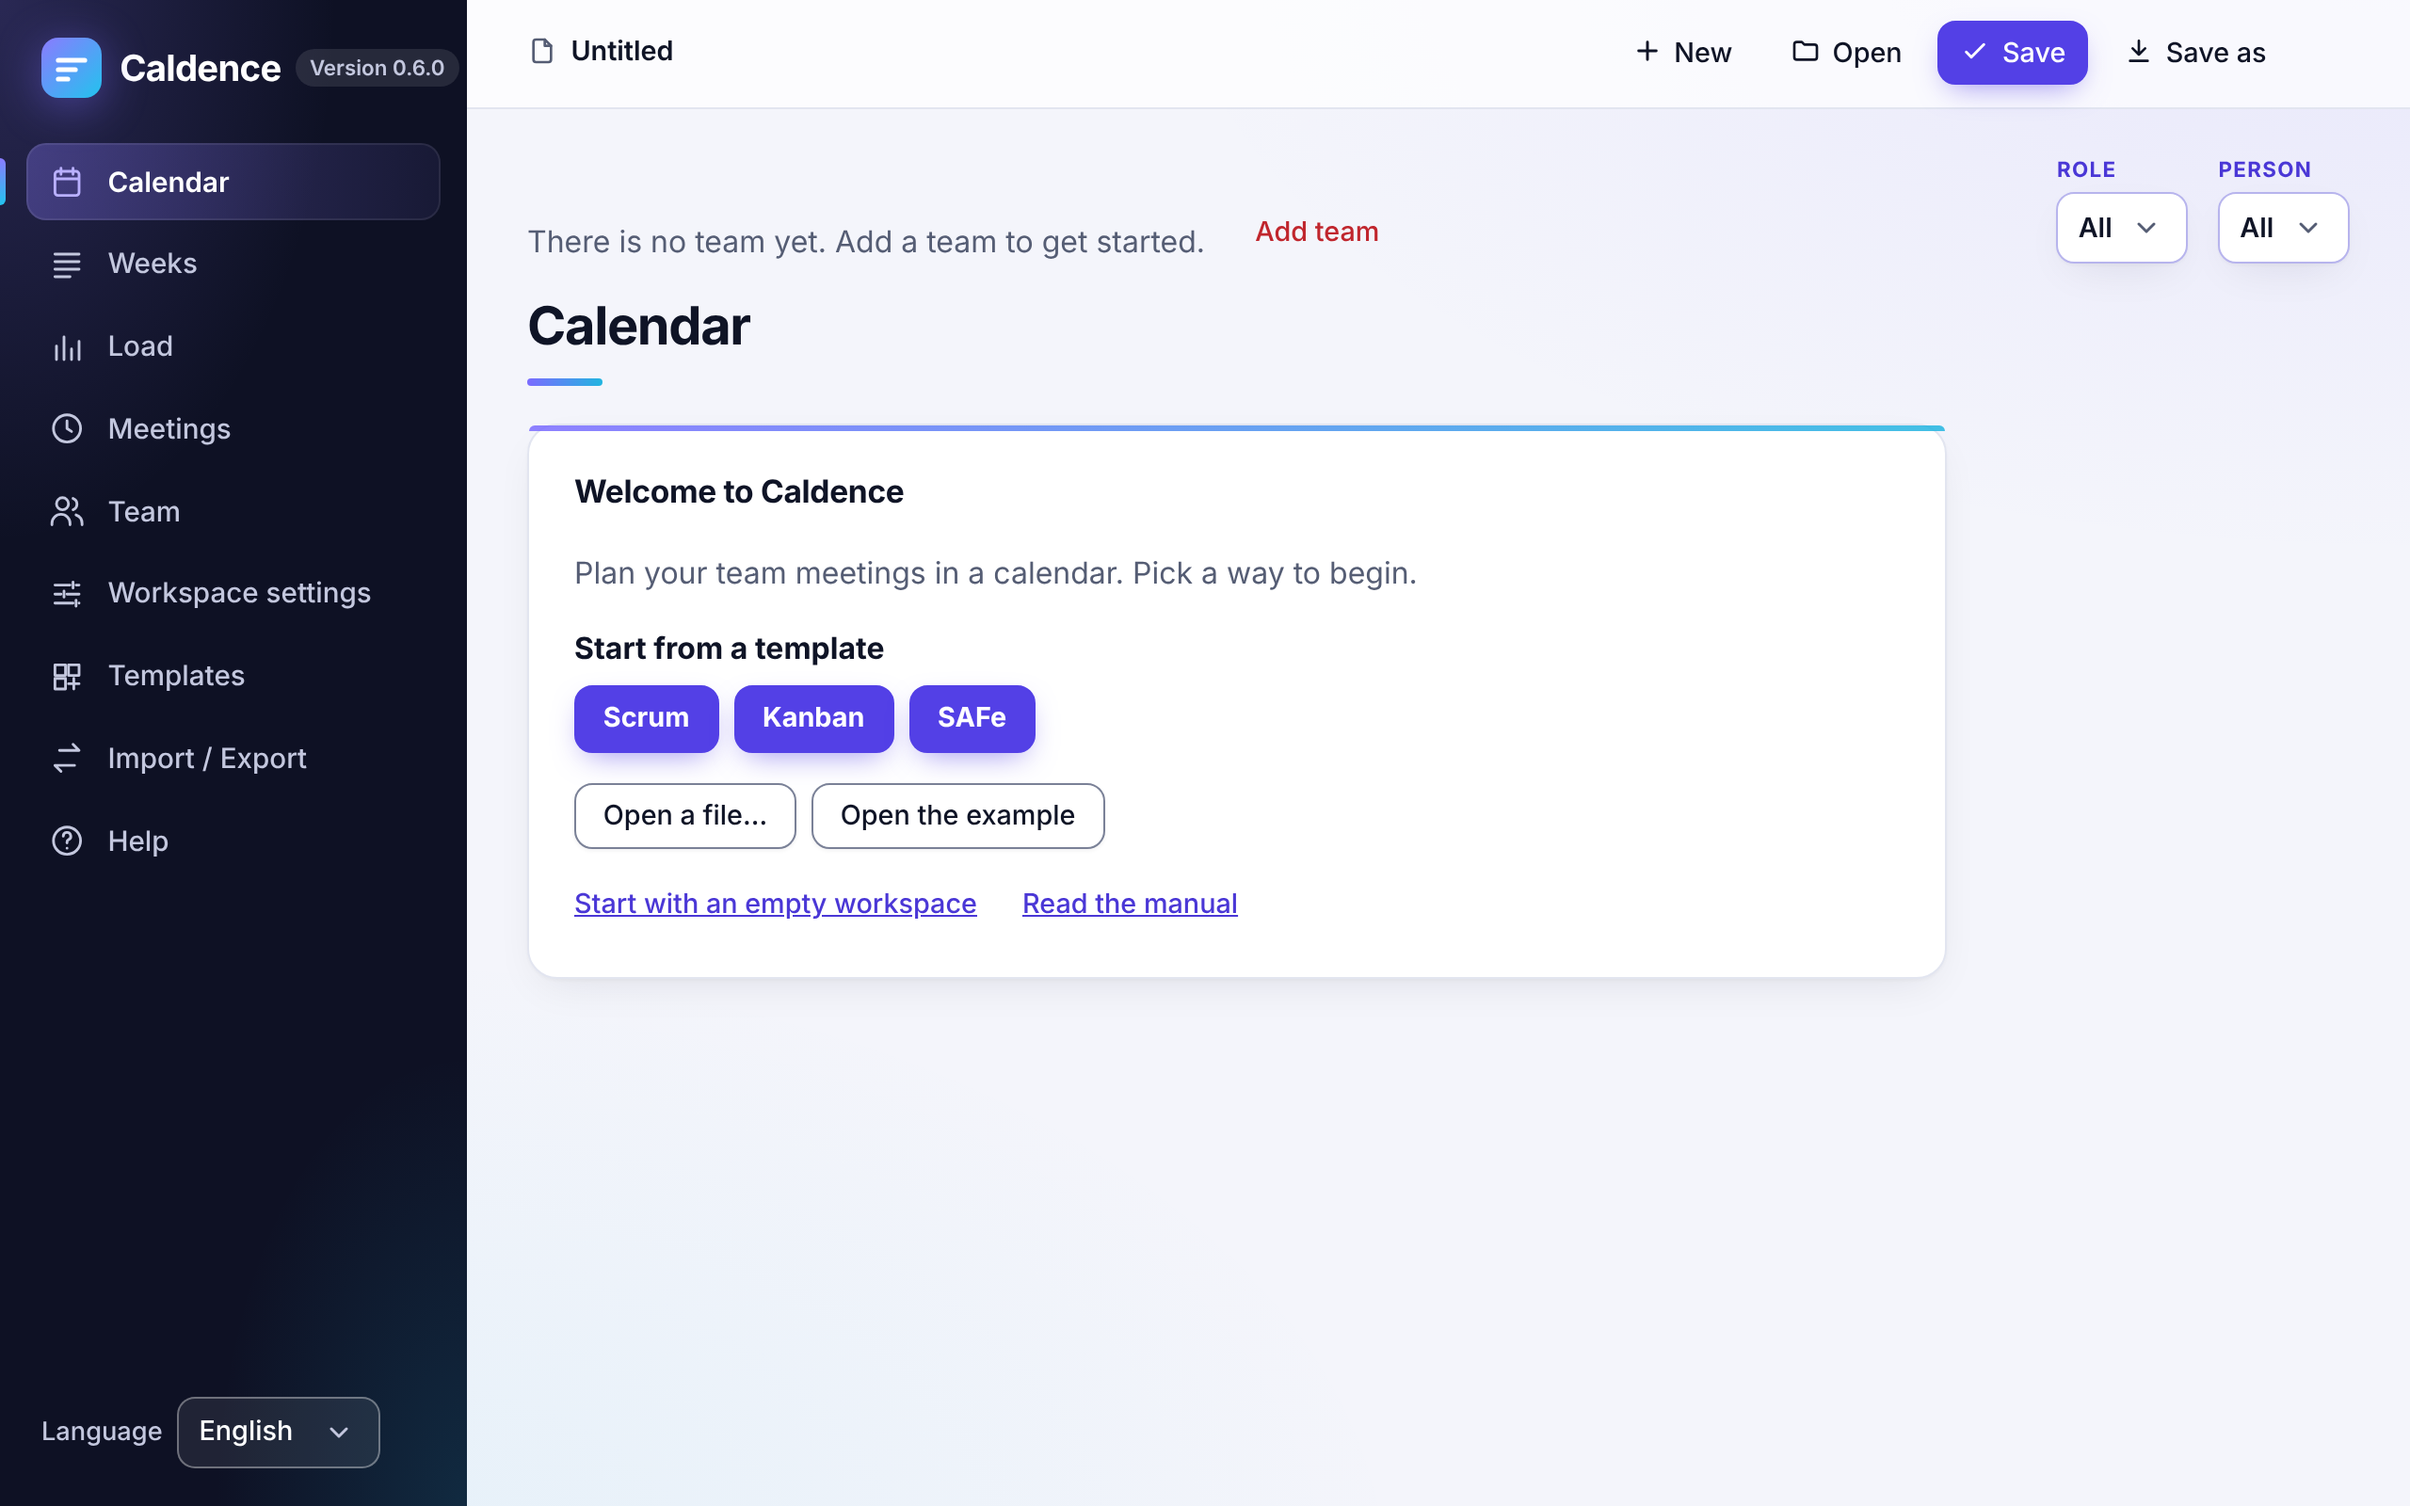
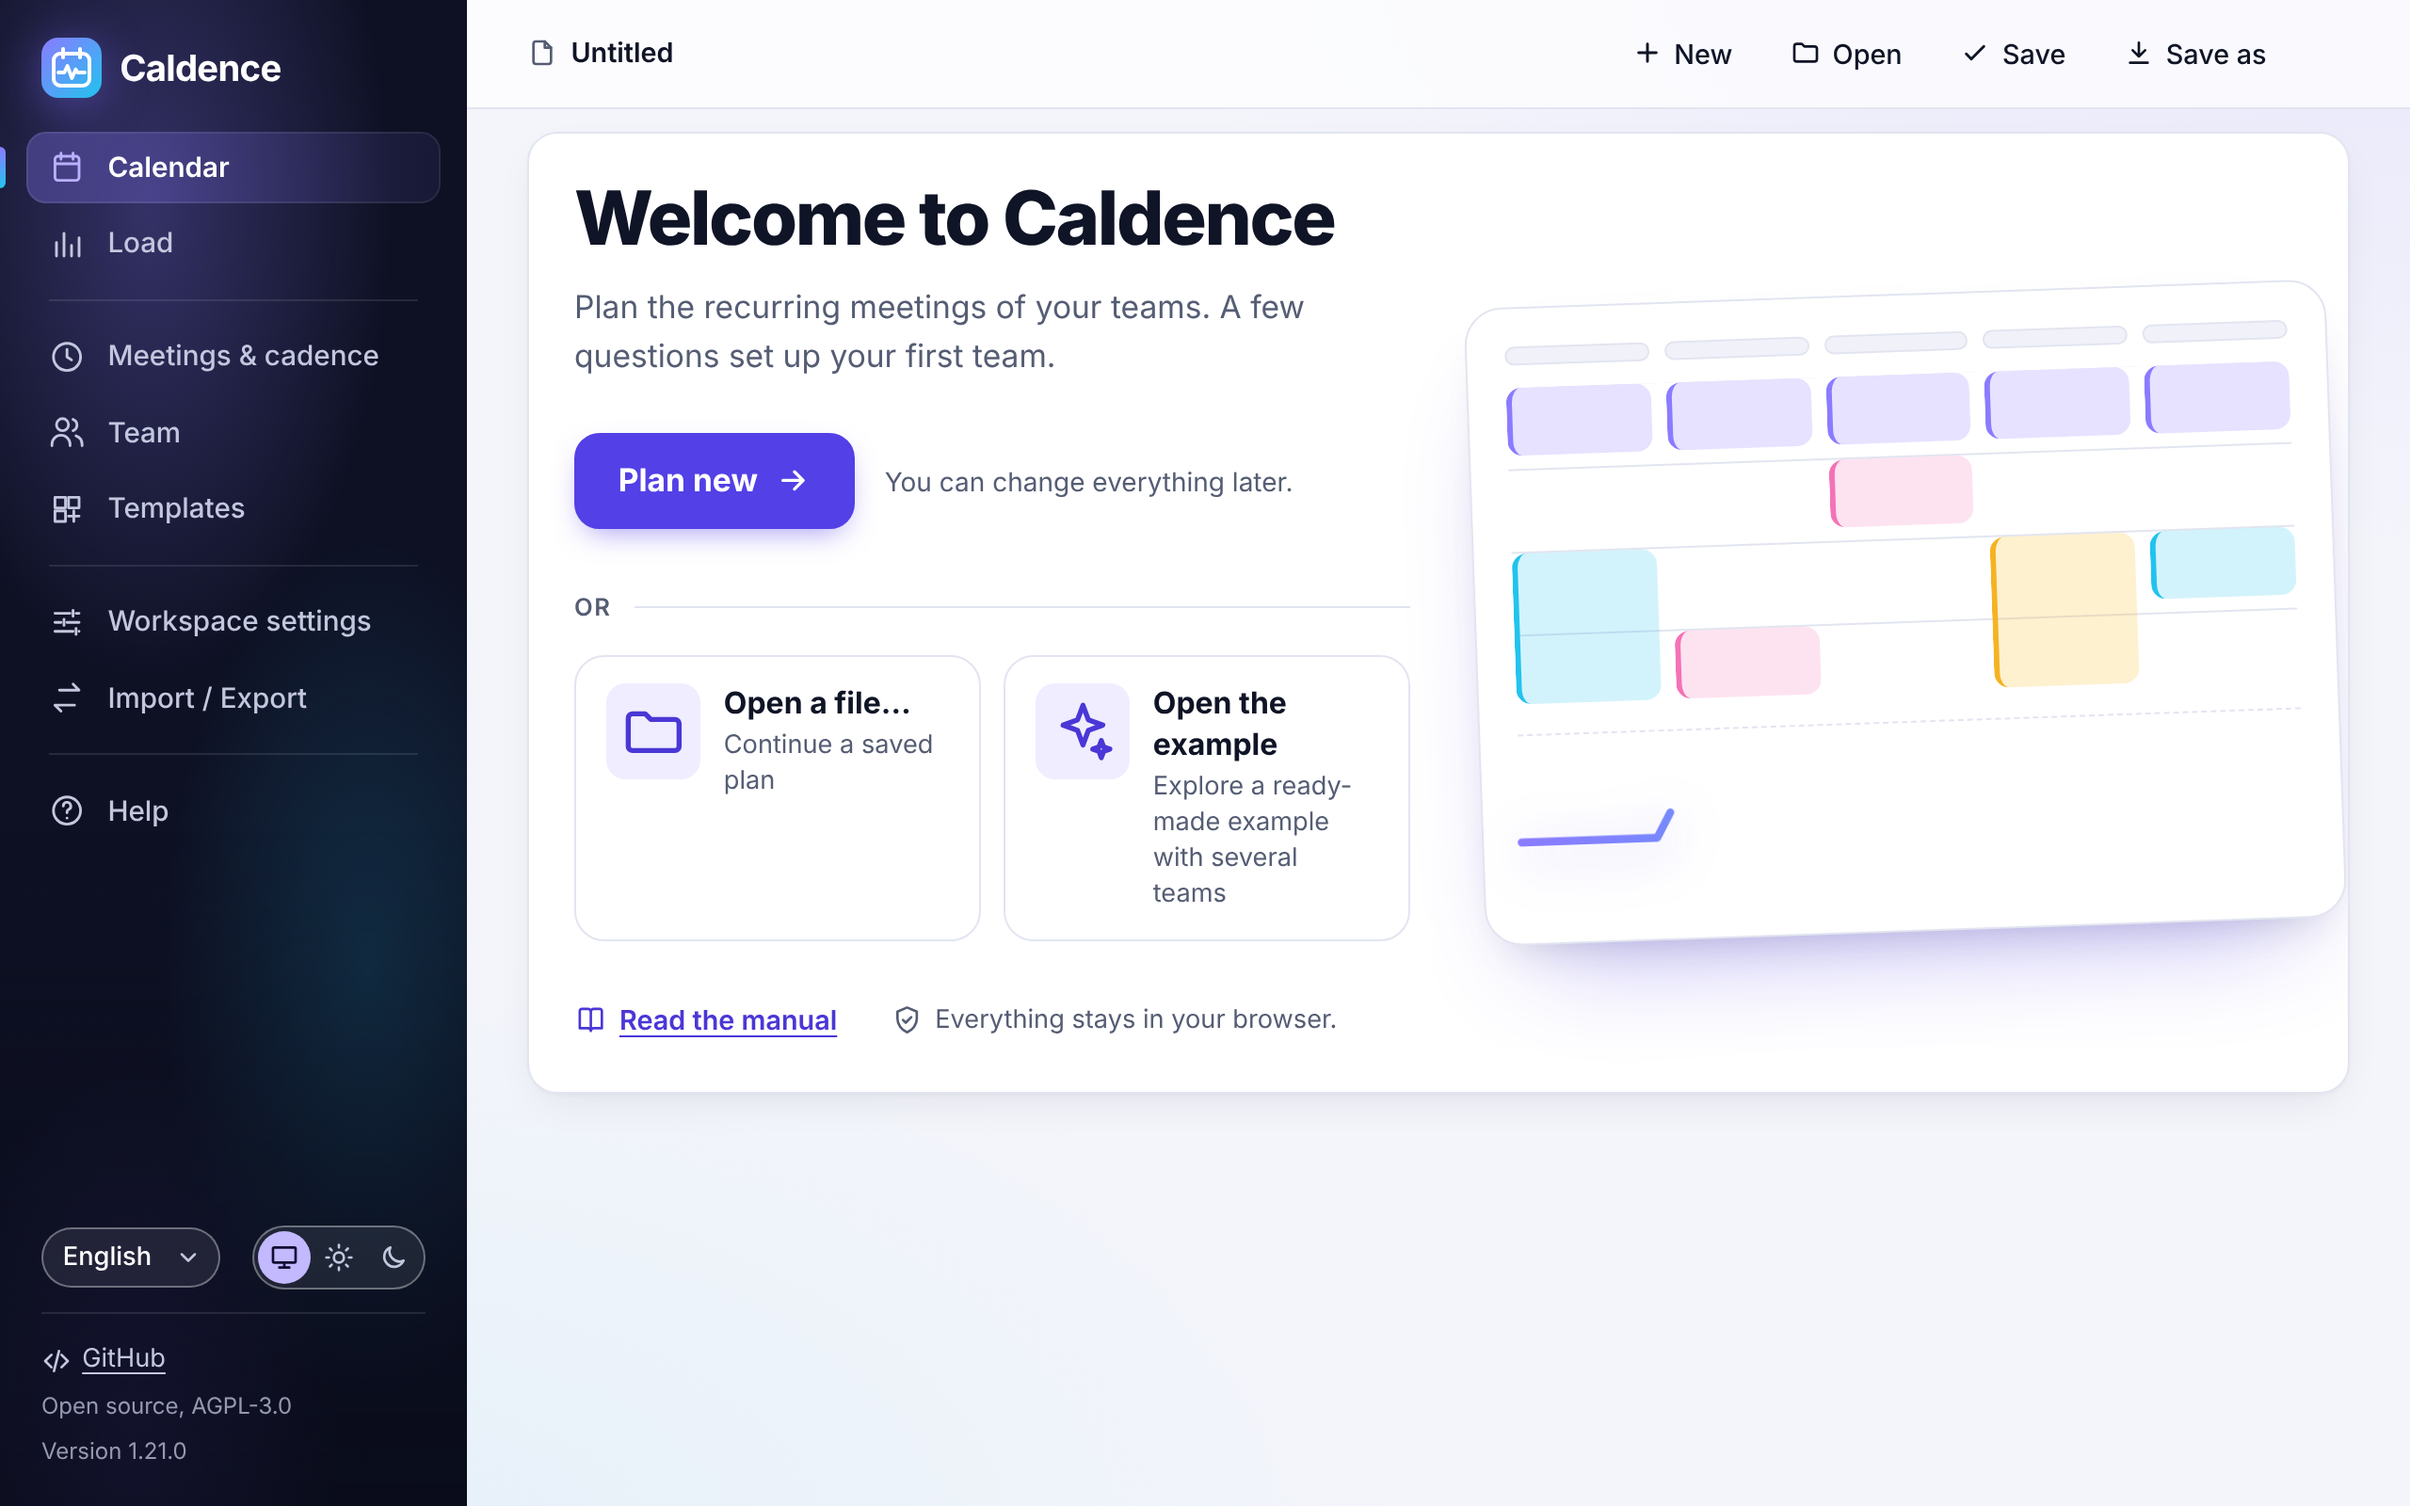
fix: review findings for the calendar levels
Screenshots use the Horizon level, the level survives a horizon change, the
hidden Horizon table is not kept up to date, focus scrolls into view when
leaving Horizon, and WeeksView drops its unused props. README and screenshots
updated.

diff --git a/src/ui/views/CalendarView.svelte b/src/ui/views/CalendarView.svelte
@@ -1,3 +1,8 @@
+<script lang="ts" module>
+  /** The level outlives the view, which is rebuilt when the planning horizon changes. */
+  let lastMode: Mode = 'month';
+</script>
+
 <script lang="ts">
   import { tick } from 'svelte';
   import { get } from 'svelte/store';
@@ -33,8 +38,10 @@
     onOpenMeetings: () => void;
     /** Opens a meeting in the Meetings view (Edit in the day details). */
     onEditMeeting?: (teamId: string, eventId: string) => void;
+    /** Whether the calendar is the open view; the hidden Horizon table is not kept up to date. */
+    shown?: boolean;
   }
-  let { onOpenMeetings, onEditMeeting }: Props = $props();
+  let { onOpenMeetings, onEditMeeting, shown = true }: Props = $props();
 
   const horizon = $derived($workspace.settings.horizon);
   const inHorizon = (d: ISODate): boolean => d >= horizon.from && d <= horizon.to;
@@ -48,7 +55,7 @@
 
   type Mode = 'week' | 'month' | 'range';
   /** Week and month page through the horizon; range shows all of its weeks as one table. */
-  let mode = $state<Mode>('month');
+  let mode = $state<Mode>(lastMode);
   const modes: readonly Mode[] = ['week', 'month', 'range'];
   let cursor = $state<ISODate>(clampToHorizon());
   let selected = $state<ISODate | null>(null);
@@ -318,14 +325,14 @@
   async function setMode(next: Mode) {
     // The switch moves between toolbars to and from the range level; keep focus on it.
     const focused = root?.querySelector('.levels')?.contains(document.activeElement) ?? false;
-    mode = next;
+    mode = lastMode = next;
     selected = null;
     if (!focused) return;
     await tick();
-    // Without scrolling: the range level scrolls its current week into view.
+    // Into the range level without scrolling: it scrolls its current week into view itself.
     root
       ?.querySelector<HTMLElement>('.levels [aria-pressed="true"]')
-      ?.focus({ preventScroll: true });
+      ?.focus({ preventScroll: next === 'range' });
   }
 
   function edit(item: DayItem) {
@@ -664,8 +671,8 @@
         </section>
       {/each}
     </div>
-  {:else}
-    <WeeksView {onOpenMeetings} embedded {levels} />
+  {:else if shown}
+    <WeeksView {levels} />
   {/if}
 </div>
 

diff --git a/src/ui/views/WeeksView.svelte b/src/ui/views/WeeksView.svelte
@@ -6,21 +6,17 @@
   import { formatDisplayDate, formatNumber, locale, translate as t } from '../../i18n';
   import { filter, index, localToday, workspace } from '../state/workspace';
 
+  /** The calendar's Horizon level; the calendar shows the empty-state hint. */
   interface Props {
-    /** Switches to the Meetings view (empty-state hint). */
-    onOpenMeetings: () => void;
-    /** Inside the calendar, which shows the empty-state hint itself. */
-    embedded?: boolean;
     /** The calendar's level switch, at the end of this toolbar. */
     levels?: Snippet;
   }
-  let { onOpenMeetings, embedded = false, levels }: Props = $props();
+  let { levels }: Props = $props();
 
   const settings = $derived($workspace.settings);
   const rows = $derived(weekRows($workspace, $index, $filter));
   const teams = $derived(scopeTeams($workspace, $filter));
   const several = $derived(teams.length > 1);
-  const hasEvents = $derived($workspace.teams.some((x) => x.events.length > 0));
   /** Roles in workspace order that carry hours in at least one row. */
   const roles = $derived($workspace.roles.filter((r) => rows.some((row) => r.id in row.byRole)));
   const currentMonday = mondayOf(localToday());
@@ -71,12 +67,6 @@
 <div class="weeks">
   {#if coverage}
     <p class="hint">{coverage}</p>
-  {/if}
-  {#if !hasEvents && !embedded}
-    <p class="hint">
-      {$t('cal.noevents.text')}
-      <button type="button" onclick={onOpenMeetings}>{$t('cal.noevents.button')}</button>
-    </p>
   {/if}
 
   <div class="toolbar">

diff --git a/tests/e2e/weeks-load.spec.ts b/tests/e2e/weeks-load.spec.ts
@@ -191,8 +191,12 @@ test('a horizon that ends before the cadence starts gives rows without cadence',
   await page.getByLabel('Horizon from').fill('2026-06-01');
   await page.getByLabel('Horizon to').fill('2026-12-31');
   await expect(page.getByLabel('Horizon to')).not.toHaveAttribute('aria-invalid', 'true');
-  // A new horizon starts the calendar again at the month.
-  await showRange(page);
+  // The calendar keeps its Horizon level while the horizon changes.
+  await page.getByRole('tab', { name: 'Calendar', exact: true }).click();
+  await expect(panel.getByRole('button', { name: 'Horizon', exact: true })).toHaveAttribute(
+    'aria-pressed',
+    'true',
+  );
   await expect(panel.locator('caption')).toHaveText('Weeks 06/01/2026–12/31/2026');
   expect(await panel.locator('tbody tr').count()).toBeGreaterThan(20);
   await expect(panel.getByText(/Sprint|Period/)).toHaveCount(0);

diff --git a/src/ui/Shell.svelte b/src/ui/Shell.svelte
@@ -358,6 +358,7 @@
               {#key $workspace.settings.horizon.from + $workspace.settings.horizon.to}
                 <CalendarView
                   onOpenMeetings={() => select('meetings', true)}
+                  shown={active === 'calendar'}
                   onEditMeeting={editMeeting}
                 />
               {/key}

diff --git a/README.md b/README.md
@@ -14,7 +14,7 @@ Status: 1.0
 
 - Teams and roles with people, working hours and load warnings.
 - Recurring meetings with rules: weekly, selected weekdays, every n weeks, monthly nth weekday, cadence day, cycle milestone and once.
-- Calendar (month and week), weeks and load views, with public and school holidays.
+- Calendar (week, month and the whole planning horizon week by week) and load view, with public and school holidays.
 - Templates for Scrum, Kanban and SAFe, plus your own template files.
 - Calendar export and import as `.ics` files (Outlook, Google Calendar, Apple Calendar).
 - Region files: import your own holiday data.
@@ -24,7 +24,7 @@ Status: 1.0
 
 ## Screenshots
 
-All screenshots are generated by `npm run screenshots`. The German interface: [start](docs/screenshots/start-de.png), [calendar](docs/screenshots/calendar-de.png), [weeks](docs/screenshots/weeks-de.png), [load](docs/screenshots/load-de.png), [meetings](docs/screenshots/meetings-de.png), [templates](docs/screenshots/templates-de.png), [import / export](docs/screenshots/exchange-de.png) and [help](docs/screenshots/help-de.png). The calendar in [dark mode](docs/screenshots/calendar-en-dark.png).
+All screenshots are generated by `npm run screenshots`. The German interface: [start](docs/screenshots/start-de.png), [calendar](docs/screenshots/calendar-de.png), [planning horizon](docs/screenshots/weeks-de.png), [load](docs/screenshots/load-de.png), [meetings](docs/screenshots/meetings-de.png), [templates](docs/screenshots/templates-de.png), [import / export](docs/screenshots/exchange-de.png) and [help](docs/screenshots/help-de.png). The calendar in [dark mode](docs/screenshots/calendar-en-dark.png).
 
 ## Quick start
 
